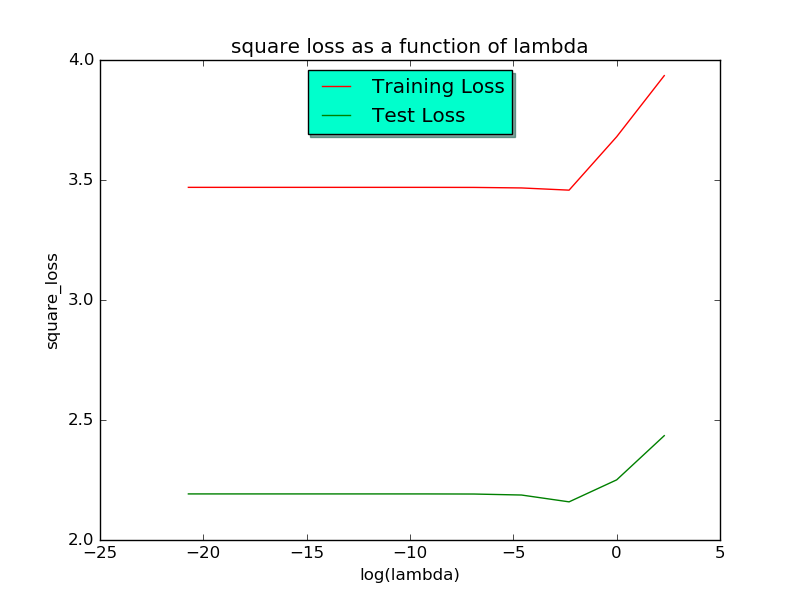
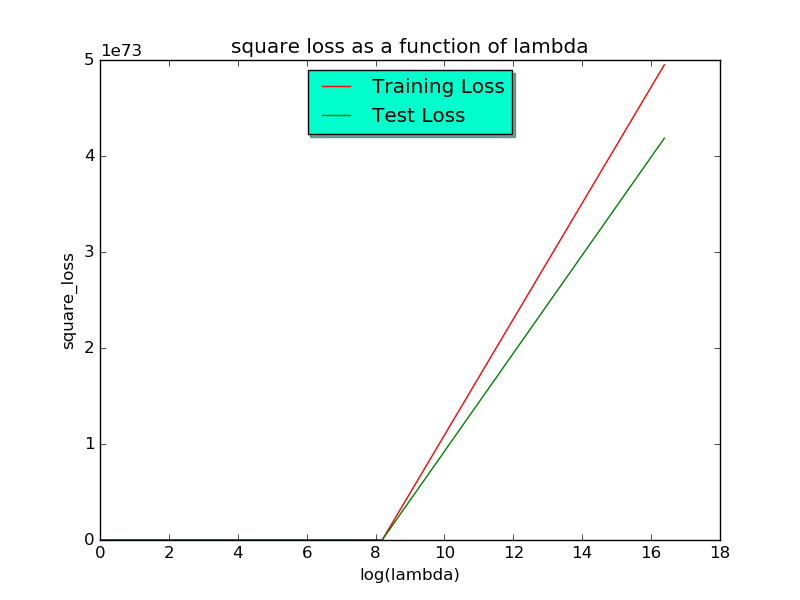
backtracking line search implemented

diff --git a/HW1/hw1_skeleton_code.py b/HW1/hw1_skeleton_code.py
@@ -208,7 +208,21 @@ def batch_grad_descent(X, y, alpha, num_iter=1000, check_gradient=False):
 ###Q2.4b: Implement backtracking line search in batch_gradient_descent
 ###Check http://en.wikipedia.org/wiki/Backtracking_line_search for details
 #TODO
-    
+def backtracking_line_search(X,y,theta):
+    sigma = 0.01
+    beta = 0.5
+    k = 0
+    alpha = 1 #step_size
+    while(True):
+        gradient = compute_square_loss_gradient(X,y,theta)
+        theta_next = theta - alpha * gradient
+        if (compute_square_loss(X,y,theta) - compute_square_loss(X,y,theta_next) >= sigma * alpha * np.dot(gradient.T,gradient)):
+            break
+        else:
+            alpha = beta * alpha
+            theta = theta_next
+            k = k+1
+    print alpha
 
 def compute_regularized_square_loss(X, y, theta, lambda_reg):
     return compute_square_loss(X,y,theta) + lambda_reg*(np.dot(theta.T,theta))
@@ -235,7 +249,7 @@ def compute_regularized_square_loss_gradient(X, y, theta, lambda_reg):
 
 ###################################################
 ###Q2.5b: Batch Gradient Descent with regularization term
-def regularized_grad_descent(X, y, alpha, lambda_reg, num_iter=1000):
+def regularized_grad_descent(X, y, alpha, lambda_reg, num_iter=100):
     """
     Args:
         X - the feature vector, 2D numpy array of size (num_instances, num_features)
@@ -266,7 +280,7 @@ def regularized_grad_descent(X, y, alpha, lambda_reg, num_iter=1000):
         time_elapsed[i] = time_end = time_start
 
     time_gradient_step = np.average(time_elapsed)
-    print time_gradient_step
+    #print time_gradient_step
     return theta_hist,loss_hist
 
 
@@ -279,7 +293,13 @@ def regularized_grad_descent(X, y, alpha, lambda_reg, num_iter=1000):
  
 def visualize_bgd(X_train, X_test, y_train, y_test):
         
-    lambda_range = np.array([10**-9,10**-8,10**-7,10**-6,10**-5,10**-4,10**-3,10**-2,10**-1,1,10])
+    #lambda_range = np.array([10**-8,10**-7,10**-6,10**-5,10**-4,10**-3,20**-2,30**-2,40**-2,50**-2,60**-2,70**-2,80**-2,90**-2,10**-1,20**-1,30**-1,40**-1,50**-1,60**-1,70**-1,80**-1,90**-1,1,2,3,4,5,6,7,8,9,10,50,100,200,1000,10000,100000])
+    start = 10**-3
+    lambda_range = np.zeros(15)
+    for i in range(15):
+        print start
+        lambda_range[i] = start
+        start = start * (2)
     lambda_logs = np.log(lambda_range)
     square_loss_train = np.zeros(lambda_range.shape[0])
     square_loss_test = np.zeros(lambda_range.shape[0])
@@ -287,16 +307,16 @@ def visualize_bgd(X_train, X_test, y_train, y_test):
 
     for i in lambda_range:
         
-        train_theta,train_loss = regularized_grad_descent(X_train,y_train,0.01,i)
-        test_theta,test_loss = regularized_grad_descent(X_test,y_test,0.01,i)
+        train_theta,train_loss = regularized_grad_descent(X_train,y_train,0.0625,i)
+        #test_theta,test_loss = regularized_grad_descent(X_test,y_test,0.01,i)
         
         square_loss_train[k] =compute_square_loss(X_train,y_train,train_theta[X_train.shape[0]-1])
-        square_loss_test[k] = compute_square_loss(X_test,y_test,test_theta[X_test.shape[0]-1])
+        square_loss_test[k] = compute_square_loss(X_test,y_test,train_theta[X_train.shape[0]-1])
 
         k = k + 1
     
-    plt.plot(lambda_logs,square_loss_train,'r',label = 'Training Loss')
-    plt.plot(lambda_logs,square_loss_test,'g',label = 'Test Loss')
+    plt.plot(lambda_range,square_loss_train,'r',label = 'Training Loss')
+    plt.plot(lambda_range,square_loss_test,'g',label = 'Test Loss')
     legend = plt.legend(loc='upper center', shadow=True, fontsize='large')
     legend.get_frame().set_facecolor('#00FFCC')
     plt.title('square loss as a function of lambda')
@@ -378,11 +398,11 @@ def stochastic_grad_descent(X, y, alpha, lambda_reg=0.01, num_iter=100):
             plt.savefig(filename)
     
     avg_time_epoch = np.average(time_elapsed)
-    print avg_time_epoch
-    print mean
-    print std
+    #print avg_time_epoch
+    #print mean
+    #print std
     min_theta = theta_hist[np.argmin(loss_hist)/loss_hist.shape[1],np.argmin(loss_hist)%loss_hist.shape[1]]
-    print min_theta
+    #print min_theta
 
     return theta_hist,loss_hist
 ################################################
@@ -413,15 +433,19 @@ def main():
 
     grad_check = grad_checker(X_train,y_train,np.ones(X_train.shape[1]))
     
-    #visualize_bgd(X_train, X_test, y_train, y_test)
+    visualize_bgd(X_train, X_test, y_train, y_test)
     """
     theta_hist, loss_hist = batch_grad_descent(X_train,y_train,0.01)
     theta_hist, loss_hist = batch_grad_descent(X_train,y_train,0.05)
     theta_hist, loss_hist = batch_grad_descent(X_train,y_train,0.1)
     theta_hist, loss_hist = batch_grad_descent(X_train,y_train,0.5)    
     """
-    #theta_hist, loss_hist = regularized_grad_descent(X_train,y_train,0.1,0.01)
-    theta_hist_sgd, loss_hist_sgd = stochastic_grad_descent(X_train,y_train,0.05)
+    backtracking_line_search(X_train,y_train,np.ones(X_train.shape[1]))
+    theta_hist, loss_hist = regularized_grad_descent(X_train,y_train,0.01,0.01)
+    theta_hist_sgd, loss_hist_sgd = stochastic_grad_descent(X_train,y_train,0.01,0.01)
+    #print loss_hist.shape
+    #print loss_hist_sgd.shape
+
     #print theta_hist_sgd, loss_hist_sgd 
 
     #print theta_hist_sgd
